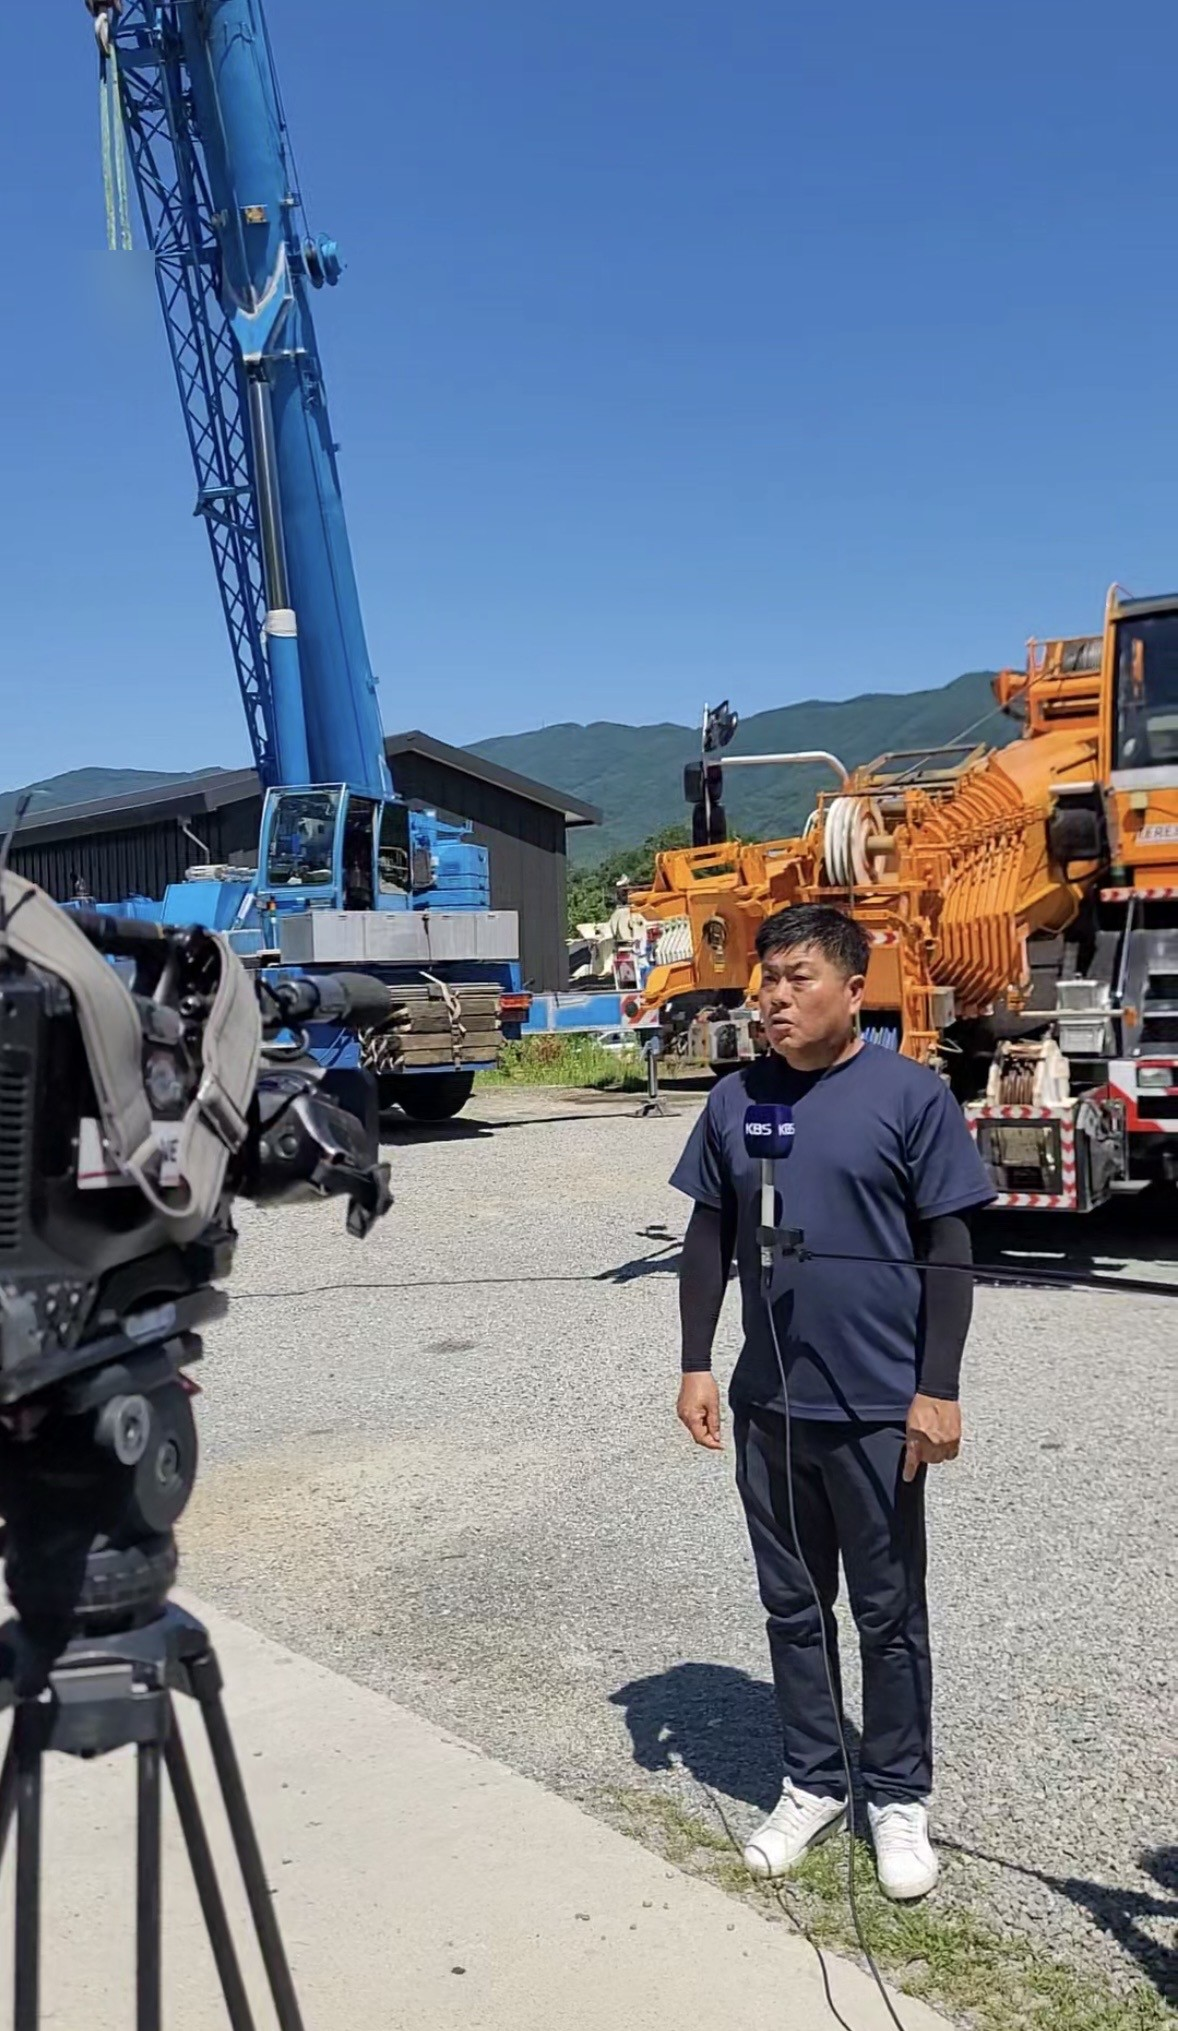
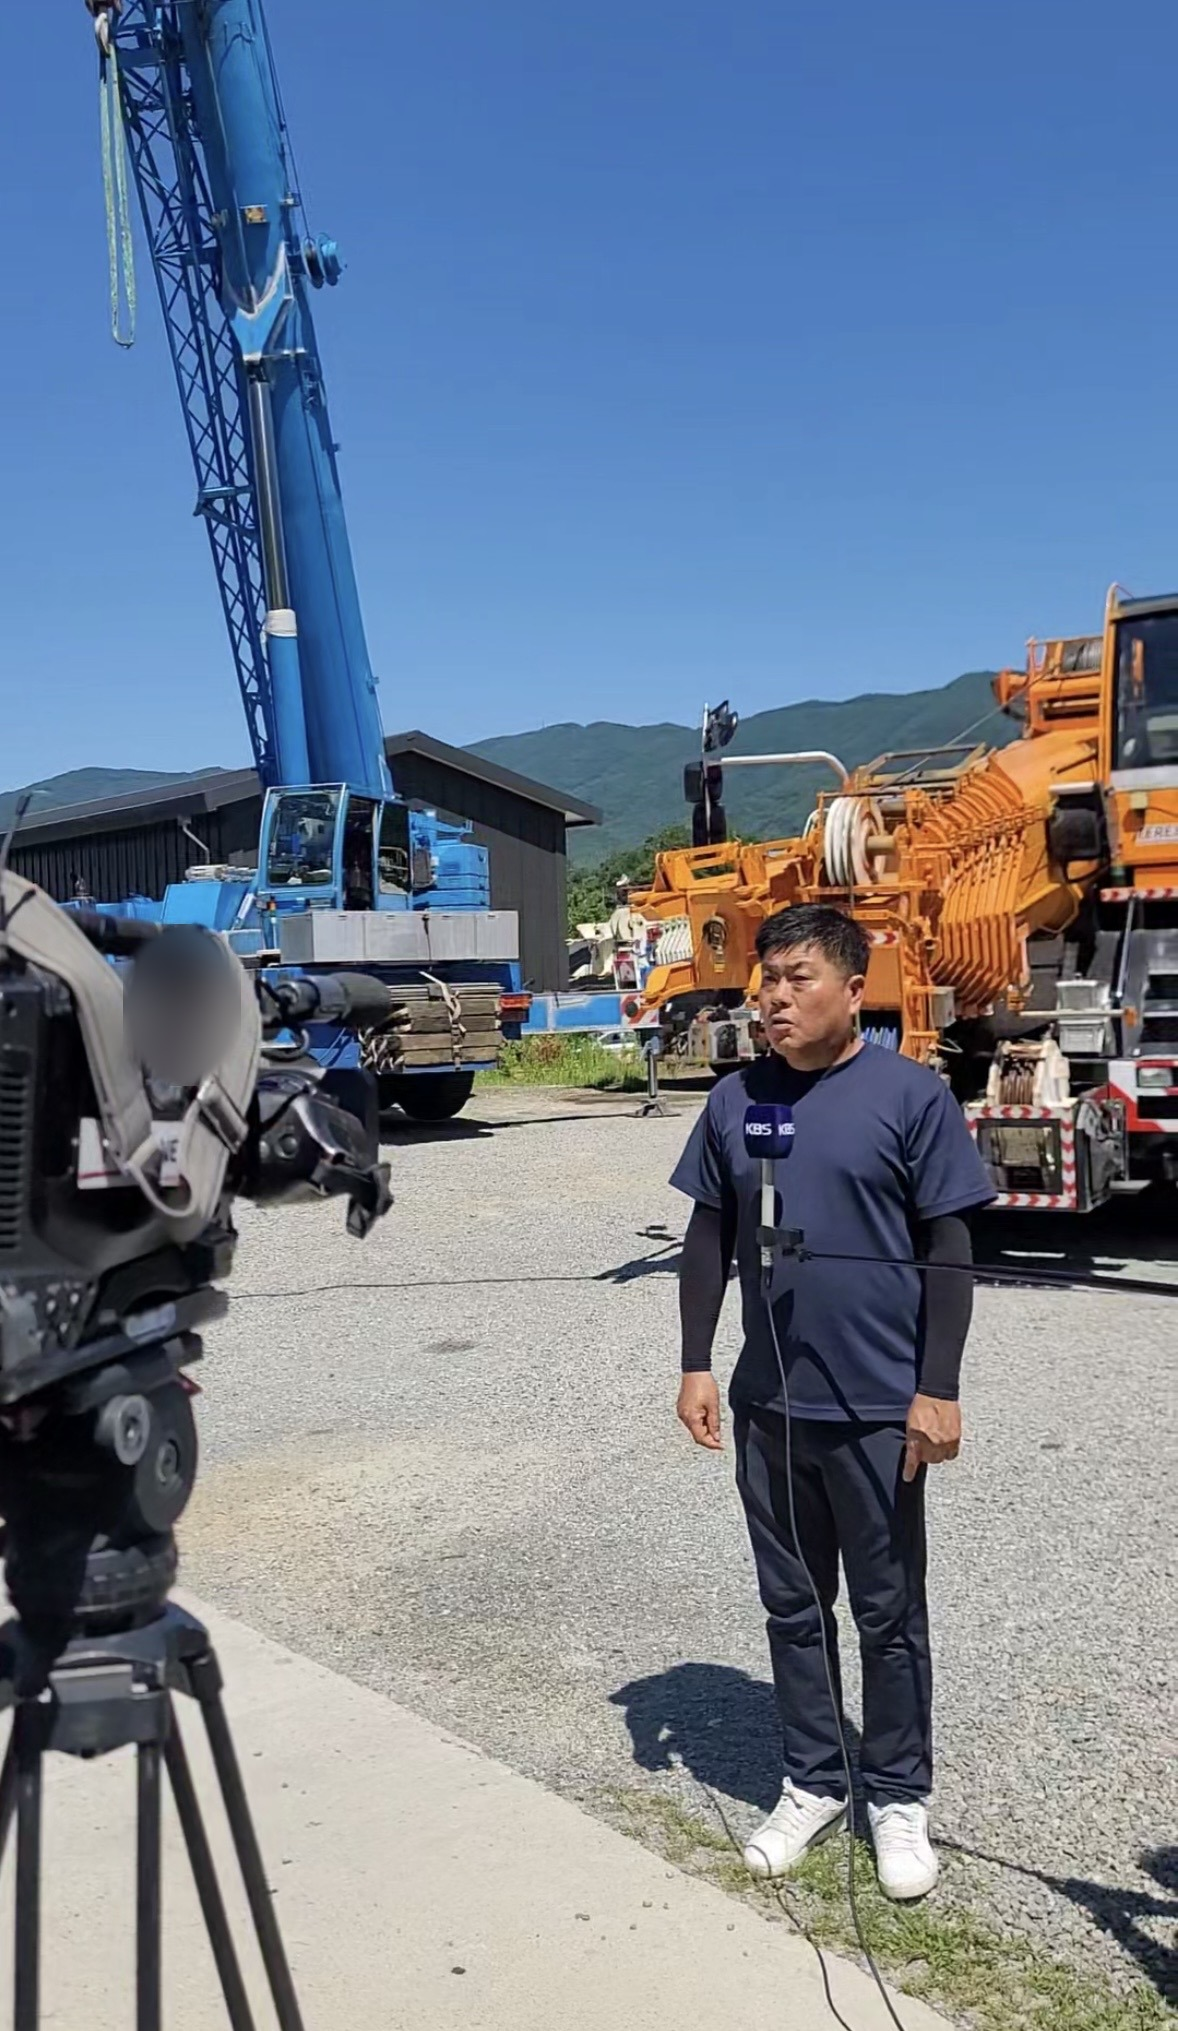
Add files via upload

Changed region(s): [[0.0917, 0.4343, 0.2139, 0.5583], [0.0917, 0.1241, 0.1222, 0.1861]]

diff --git a/activity.html b/activity.html
@@ -364,8 +364,9 @@ nav a:hover .nav-chevron,nav a:focus-visible .nav-chevron,nav a:active .nav-chev
 </style>
 
 
+
 <style id="unified-smooth-slider">
-.rep-slider, .activity-slider{position:relative}
+.rep-slider, .activity-slider{position:relative;overflow:hidden}
 .rep-slide, .activity-slide{
   display:block!important;
   position:absolute!important;
@@ -376,6 +377,8 @@ nav a:hover .nav-chevron,nav a:focus-visible .nav-chevron,nav a:active .nav-chev
   pointer-events:none;
 }
 .rep-slide.active, .activity-slide.active{
+  position:relative!important;
+  inset:auto;
   opacity:1;
   visibility:visible;
   transition:opacity .75s ease;
@@ -384,8 +387,11 @@ nav a:hover .nav-chevron,nav a:focus-visible .nav-chevron,nav a:active .nav-chev
 }
 .rep-slide img, .activity-slide img{
   display:block;
+  width:100%;
+  height:auto;
 }
 </style>
+
 
 </head>
 <body>
@@ -414,14 +420,12 @@ nav a:hover .nav-chevron,nav a:focus-visible .nav-chevron,nav a:active .nav-chev
         <div class="activity-slider" id="activitySlider">
           <div class="activity-slide active"><img src="activity-01.jpg" alt="2026 노동절 기념 표창장"></div>
           <div class="activity-slide"><img src="activity-02.jpg" alt="2026 노동절 기념행사 표창 현장 1"></div>
-          <div class="activity-slide"><img src="activity-03.jpg" alt="2026 노동절 기념행사 표창 현장 2"></div>
-          <div class="activity-slide"><img src="activity-04.jpg" alt="2026 노동절 기념행사 기념사진 1"></div>
-          <div class="activity-slide"><img src="activity-05.jpg" alt="2026 노동절 기념행사 기념사진 2"></div>
+          <div class="activity-slide"><img src="activity-03.jpg" alt="2026 노동절 기념행사 기념사진"></div>
+          <div class="activity-slide"><img src="activity-04.jpg" alt="2026 노동절 기념행사 표창 현장 2"></div>
           <button class="activity-arrow prev" type="button" aria-label="이전 사진">‹</button>
           <button class="activity-arrow next" type="button" aria-label="다음 사진">›</button>
         </div>
-        <div class="activity-meta"><span>2026 노동절 기념행사 · 춘천시청 대회의실</span><span id="activityCount">1 / 5</span></div>
-        <p class="privacy-note">김선원 대표 외 참석자 얼굴은 개인정보 보호를 위해 블러 처리했습니다.</p>
+        <div class="activity-meta"><span>2026 노동절 기념행사 · 춘천시청 대회의실</span><span id="activityCount">1 / 4</span></div>
       </div>
     </div>
   </section>

diff --git a/representative.html b/representative.html
@@ -334,8 +334,9 @@ nav a:hover .nav-chevron,nav a:focus-visible .nav-chevron,nav a:active .nav-chev
 </style>
 
 
+
 <style id="unified-smooth-slider">
-.rep-slider, .activity-slider{position:relative}
+.rep-slider, .activity-slider{position:relative;overflow:hidden}
 .rep-slide, .activity-slide{
   display:block!important;
   position:absolute!important;
@@ -346,6 +347,8 @@ nav a:hover .nav-chevron,nav a:focus-visible .nav-chevron,nav a:active .nav-chev
   pointer-events:none;
 }
 .rep-slide.active, .activity-slide.active{
+  position:relative!important;
+  inset:auto;
   opacity:1;
   visibility:visible;
   transition:opacity .75s ease;
@@ -354,8 +357,11 @@ nav a:hover .nav-chevron,nav a:focus-visible .nav-chevron,nav a:active .nav-chev
 }
 .rep-slide img, .activity-slide img{
   display:block;
+  width:100%;
+  height:auto;
 }
 </style>
+
 
 </head>
 <body>
